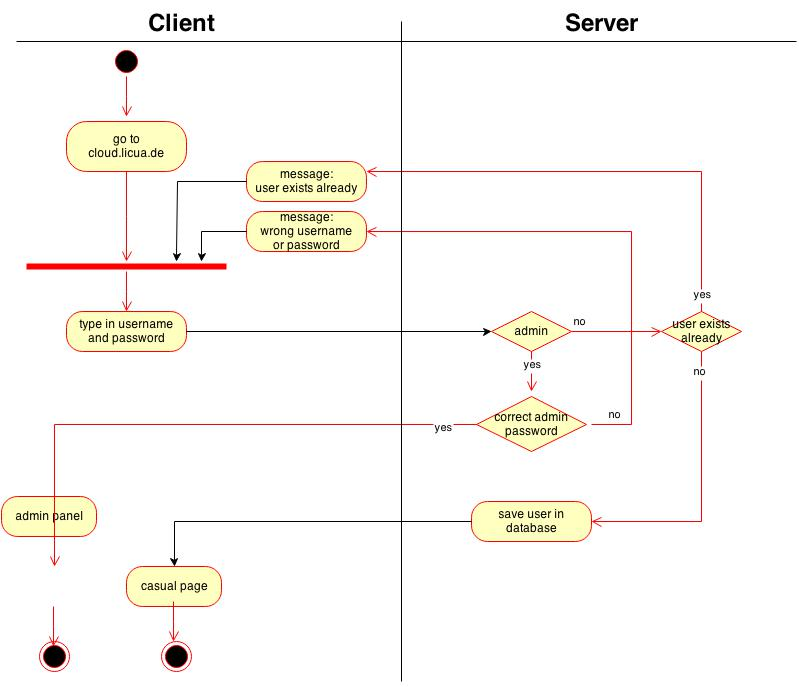
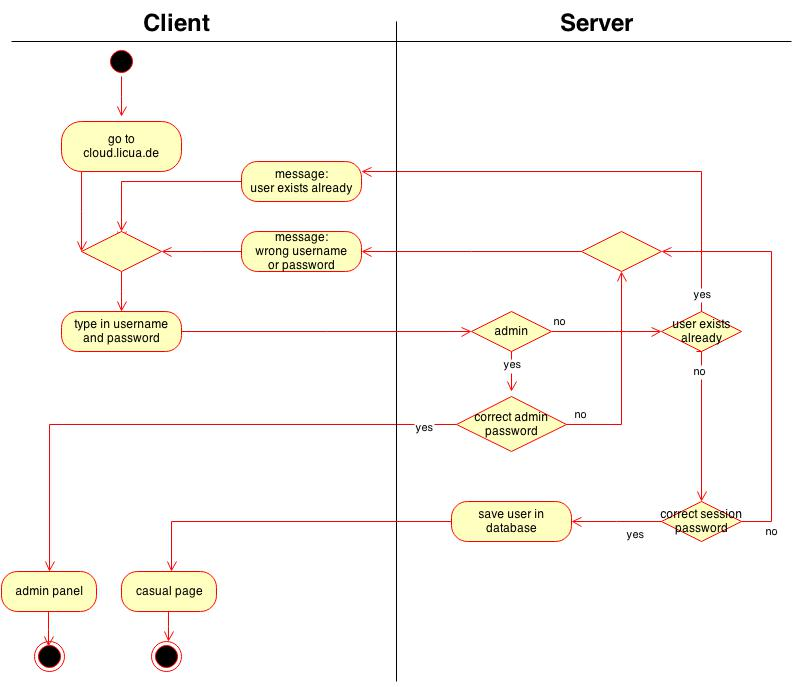
Improvement of SRS, correction of ActivityDiagram

diff --git a/SRS/SRS.html b/SRS/SRS.html
@@ -48,6 +48,12 @@
 					<td>Edited <a href="#1.3">Definitions</a> and Table of Contents.</td>
 					<td>Leo Reschetko, Philipp Perez Heil, Tobias Schwarz</td>
 				</tr>
+				<tr>
+					<td>23.10.2014</td>
+					<td>Version 0.5</td>
+					<td>Adoption of ideas for improvement</td>
+					<td>Philipp Perez Heil, Tobias Schwarz</td>
+				</tr>
 			</table>
 		</p>
 		<br>
@@ -161,16 +167,23 @@
 					</ul>
 				</p>
 				<h2 id="1.3">1.3 Definitions, Acronyms and Abbreviations</h2>
-				<h3>Admin</h3>
-				<p>The admin has all rights reserved, except to vote for a song. He has an own accout with a nickname and a password which can
-					be edited only by himself or other admins. For more information, look at our<a href="#2">Overall Description</a>.</p>
-				<h3>Casual user</h3>
-				<p>This user is handeled as a guest. He cannot register nor edit his profile. To log in on the website, the casual user has to
-					choose a nickname and type in the session password (only known by the persons which are on the event). The session will be
-					deleted after the event, or by closing the browser (with cockies deleted). Every user is limited to vote only once for the
-					same song. For more information, look at our<a href="#2">Overall Description</a>.</p>
+					<h3>Admin</h3>
+					<p>The admin has all rights reserved, except to vote for a song. He has an own accout with a nickname and a password which can
+						be edited only by himself or other admins. For more information, look at our<a href="#2">Overall Description</a>.</p>
+					<h3>Casual user</h3>
+					<p>This user is handeled as a guest. He cannot register nor edit his profile. To log in on the website, the casual user has to
+						choose a nickname and type in the session password (only known by the persons which are on the event). The session will be
+						deleted after the event, or by closing the browser (with cockies deleted). Every user is limited to vote only once for the
+						same song. For more information, look at our<a href="#2">Overall Description</a>.</p>
+					<h3>Arduino Uno / Raspberry Pi</h3>
+					<p>The Arduino Uno and the Raspberry Pi are mircocontroller.<br>For more information go to<a href="http://arduino.cc/en/pmwiki.php?n=Main/arduinoBoardUno">arduino.cc</a>
+						or to<a href="http://de.wikipedia.org/wiki/Raspberry_Pi">Wikipedia</a>.</p>
 				<h2 id="1.4">1.4 References</h2>
-				<p>to be determined</p>
+				<p>
+					<ul>
+						<li><a href="../usecase/UseCase-Login.html">Use Case 1 - Login</a></li>
+					</ul>
+				</p>
 				<h2 id="1.5">1.5 Overview</h2>
 				<p>to be determined</p>
 		</div> <!-- end of point -->
@@ -244,23 +257,23 @@
 					<p>For the programming of the micro controller you need the Arduino IDE available at arduino.cc. For creating the
 					website you need notepad++ and html frameworks such as Bootstrap. We need a web server to interpret the php.</p>
 					
-					<h3>3.1.1 Functional Requirement One</h3>
+					<h3>3.1.1 Admin Account</h3>
 					<p>The admin account can define which music is allowed to be played. Thereby he also defines between which songs the
 						casual user can choose. Furthermore he defines a universal password for the actual session.</p>
 					
-					<h3>3.1.2 Functional Requirement Two</h3>
+					<h3>3.1.2 Casual User</h3>
 					<p>The casual user can log in by typing in a nickname. The password (defined by admin) is for all user the same.
 					They see the playlist and the currently playing song. They also can vote for their favourite songs but only one time for each song.</p>						
 					
-					<h3>3.1.3 Functional Requirement Three</h3>
+					<h3>3.1.3 Voting and Transmission of music</h3>
 					<p>30 seconds before the currently played song finishes the song on the top of the playlist becomes blocked for voting. Immediately,
-						the song is transmitted by the backend over the LAN to the micro controller and gets saved on its sd-card.</p>
+						the song is transmitted by the backend over the LAN to the Raspberry Pi and gets saved on its sd-card.</p>
 					
-					<h3>3.1.4 Functional Requirement Four</h3>
-					<p>The micro controller has to send the song to its mp3-shield which is connected to the 2.1 sound system.</p>
+					<h3>3.1.4 Playing Music</h3>
+					<p>The Raspberry Pi connected through the 3.5mm headphone jack to the 2.1 sound system plays the transmitted song.</p>
 					
-					<h3>3.1.5 Functional Requirement Five</h3>
-					<p>The micro controller gets the input signals of its microphone and let the LEDs pulse depending on the volume.</p>
+					<h3>3.1.5 Lightning of LEDs</h3>
+					<p>The Arduino Uno gets the input signals of its microphone and let the LEDs pulse depending on the volume.</p>
 						
 				<h2 id="3.2">3.2 Usability</h2>			
 					<h3>3.2.1 Usability Requirement One</h3>
@@ -292,12 +305,13 @@
 				<p>
 					<ul>
 						<li>Arduino Uno</li>
-						<li>Wifi shield</li>
-						<li>MP3 shield</li>
+						<li>Raspberry Pi</li>
+						<li>WLAN Stick</li>
 						<li>20 UV-LEDs</li>
 						<li>2.1 sound system</li>
 						<li>wire</li>
 						<li>9 V power supply</li>
+						<li>etc.</li>
 					</ul>
 				</p>
 			
@@ -315,7 +329,8 @@
 				<h2 id="3.10">3.10 Licensing Requirements</h2>
 				<p>not applicable</p>
 				<h2 id="3.11">3.11 Legal, Copyright, and Other Notices</h2>
-				<p>to be determined</p>
+				<p>The founder of the project "CLOUD" are Leo Reschetko, Philipp Perez Heil und Tobias Schwarz. Our source code is available
+				to the public via<a href="https://github.com/leoResc/cloud">GitHub</a>and therefore free for use.</p>
 				<h2 id="3.12">3.12 Applicable Standards</h2>
 				<p>to be determined</p>
 		</div> <!-- end of point -->

diff --git a/UseCases/Login/UseCase-Login.html b/UseCases/Login/UseCase-Login.html
@@ -70,7 +70,7 @@
 				</li>
 				<li><a href="#4">Preconditions</a>
 					<ol class="ebene2">
-						<li><a href="#4.1">Precondition One</a></li>	
+						<!--<li><a href="#4.1">Precondition One</a></li>-->
 					</ol>
 				</li>
 				<li><a href="#5">Postconditions</a>
@@ -80,7 +80,7 @@
 				</li>
 				<li><a href="#6">Extension Points</a>
 					<ol class="ebene2">
-						<li><a href="#6.1">Name of Extension Point</a></li>	
+						<!--<li><a href="#6.1">Name of Extension Point</a></li>-->
 					</ol>
 				</li>
 			</ol>
@@ -104,28 +104,31 @@
 			<h1 id="2">2. Flow of Events</h1>
 				<h2 id="2.1">2.1 Basic Flow</h2>
 					<img src="Mockup_Login.jpg"></img>
-					<p>The user enters his nickname and the according password. A click on the login button will send the information
-						to the server. There they will be verified. <br> <br>
+					<p>The user enters his nickname and the according password. 
+					A click on the login button will send the information
+						to the server. There it will be verified. <br> 
 						
 						<ol><h3>Administrator</h3>
-							<li>Username has to be "admin"</li>
-							<li>Password has to be the right password for administrator account</li>
-							<li>User will be connected to the admin panel</li>
+							<li>Username has to be "admin".</li>
+							<li>Password has to be the right password for administrator account.</li>
+							<li>User will be forwarded to the admin panel.</li>
 						</ol>	
-						
+						<br>
 						<ol><h3>Casual User</h3>
-							<li>User chooses a nickname for himself</li>
+							<li>User chooses a nickname for himself.</li>
 							<li>Server validates that username is not assigned to another user yet.</li>
-							<li>Username will be safed in a database</li>
-							<li>Password has to be the right password for the current session</li>
-							<li>Then the user will be connected to the user page</li>
+							<li>Username will be safed in a database.</li>
+							<li>Password has to be the right password for the current session.</li>
+							<li>Then the user will be forwarded to the casual user page.</li>
 						</ol>
 					</p>	
+					<img src="ActivityDiagram_Login.jpg"></img>
 				<h2 id="2.2">2.2 Alternative Flows</h2>
-					<h3>2.2.1 Fist Alternative Flow</h3>
-					<p></p>
+					<h3>2.2.1 First Alternative Flow</h3>
+					<p>If the chosen nickname is already assigned to another person, the user will get an information and 
+					is asked to choose another one.</p>
 					<h3>2.2.2 Second Alternative Flow</h3>
-					<p></p>					
+					<p>The current password field will be highlighted and the user receives an error message.</p>					
 		</div> <!-- end of point -->
 		
 		<hr>
@@ -133,13 +136,15 @@
 		<div class="point">
 			<h1 id="3">3. Special Requirements</h1>
 				<h2 id="3.1">3.1 First Special Requirements</h2>
+				<p>In order to login as a casual user you need to know the password which is set for the current event. 
+				Alternatively, you need to know the admin password to get forwarded to the admin panel.</p>
 		</div> <!-- end of point -->
 		
 		<hr>
 		
 		<div class="point">
 			<h1 id="4">4. Preconditions</h1>
-				<h2 id="4.1">4.1 Precondition One</h2>
+			<p>Not applicable</p>
 		</div> <!-- end of point -->
 		
 		<hr>
@@ -147,13 +152,14 @@
 		<div class="point">
 			<h1 id="5">5. Postconditions</h1>
 				<h2 id="5.1">5.1 Postcondition One</h2>
+				<p>The casual user will see the main page of the Cloud-Project. The admin will be forwarded to his admin panel.</p>
 		</div> <!-- end of point -->
 		
 		<hr>
 		
 		<div class="point">
 			<h1 id="6">6. Extension Points</h1>
-				<h2 id="6.1">6.1 Name of Extension Point</h2>
+				<p>Not applicable</p>
 		</div> <!-- end of point -->
 		
 		<br>
